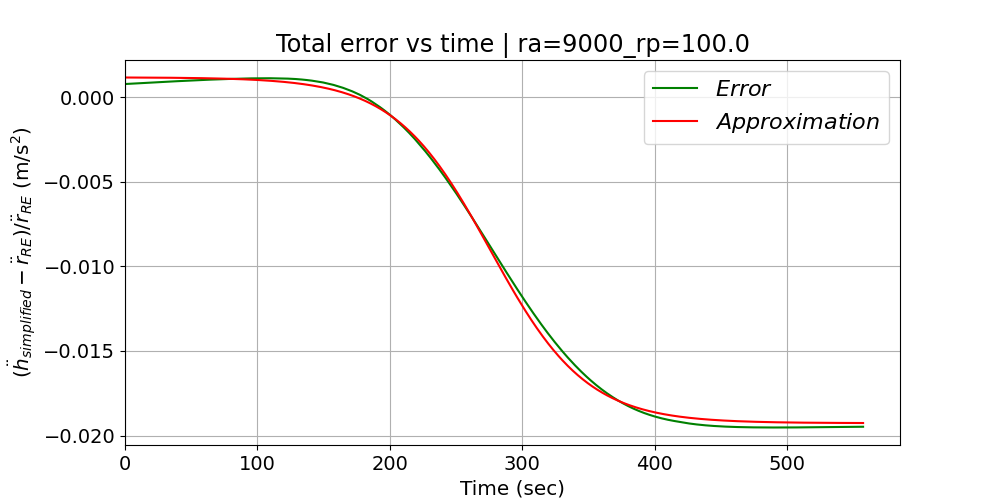
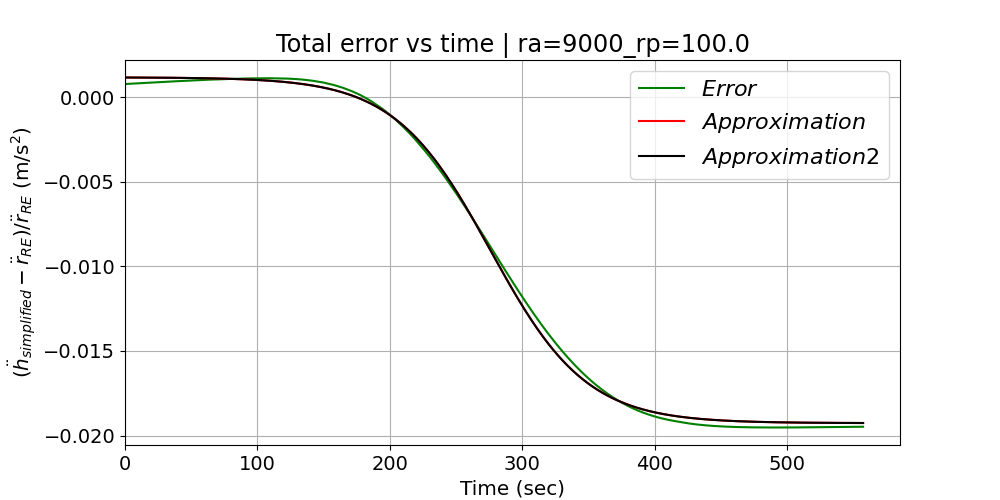
updated readme, changes to data gathering

diff --git a/main2_0.py b/main2_0.py
@@ -243,7 +243,7 @@ hddot_app = hddot_approx(CL_0,CD_0,Sref,v_sim,rho_sim,Rp,h_sim,y_sim)
 
 hddot_ff = hddot_full_form(drag_sim,lift_sim,y_sim,v_sim,h_sim)
 
-rddotOM = rddot_OM(h_sim,SAM_sim)
+rddotOM = rddot_OM(h_lambert,SAM_lambert)
 rddotRE = rddot_RE(h_lambert,v_lambert,y_lambert)
 rddotLAMB = rddot_OM(h_lambert,SAM_lambert)
 
@@ -438,17 +438,17 @@ from scipy import optimize
 def test_func(x, a, b, c):
     return a * np.tanh(c* x) + b
 
-params, params_covariance = optimize.curve_fit(test_func, x, y, p0=[0.002, 0.02,0.001])
+params, params_covariance = optimize.curve_fit(test_func, x, y, p0=[-0.002, 0.02,0.001])
 print(params)
 
-error_app =  test_func(x, -params[0], params[1], -params[2])
-
-
+error_app =  test_func(x, params[0], params[1], params[2])
 
 fig1, ax1=plt.subplots()
 ax1.plot(t_simulation,tot_error,color='green', label="$Error$")
 # ax1.plot([delta_t_lamb,delta_t_lamb], [np.max(tot_error), np.min(tot_error)], "--")
 ax1.plot(np.add(x,delta_t_lamb/2), error_app, color='red', label="$Approximation$")
+ax1.plot(np.add(x,delta_t_lamb/2), error_app2, color='black', label="$Approximation2$")
+
 ax1.set_title("Total error vs time | "+folder2[15:-13],size='xx-large')
 ax1.set_xlim(0)
 ax1.set_ylabel("$(\ddot{h}_{simplified} - \ddot{r}_{RE}) / \ddot{r}_{RE}$ (m/s$^2$)",size='x-large')
@@ -473,8 +473,7 @@ ax2.plot(t_simulation,hddot_app,color='green', label="$\ddot{h}_{simplified}$")
 # ax2.plot(t_simulation,par_app,color='red', label="parabola approx")
 # ax2.plot(pt3[0],pt3[1], 'o',color='orange',markersize=10)
 
-# ax2.plot(t_simulation, rddotOM, color='cyan', label="$\ddot{r}_{OM}$")
-# ax2.plot(t_simulation, rddotRE, color='orange', label="$\ddot{r}_{RE}$")
+ax2.plot(t_simulation, rddotOM, color='cyan', label="$\ddot{r}_{OM}$")
 # ax2.plot(t_lamb, rddotLAMB, color='grey', label="$\ddot{r}_{Lambert}$")
 ax2.plot(t_lamb, rddotLAMB_w_LD, color='blue', label="$\ddot{r}_{RE}$")
 # ax2.plot(pt1[0],pt1[1], 'o',color='orange',markersize=10)
@@ -489,9 +488,7 @@ ax2.legend(fontsize=16)
 fig2.set_size_inches(10,5)
 plt.tick_params(labelsize=14)
 ax2.grid()
-
-# fig2.savefig('C:\\Users\\marta\\Documents\\Research_codes\\Aerobraking\\Closed Form Solution_V2\\figures\\hddot.png');
-
+fig2.savefig("single_sim_plots/hddot.png");
 
 #should probably pass into y^2 one
 vel_km6 = VEL2(t_simulation,tp_sim,alt_cfs,v0,y0,h0,aoa,t_simulation[-1], hope_app)[0]
@@ -517,7 +514,7 @@ plt.tick_params(labelsize=16)
 plt.legend(fontsize=16)
 ax3.grid()
 
-# fig3.savefig('C:\\Users\\marta\\Documents\\Research_codes\\Aerobraking\\Closed Form Solution_V2\\figures\\velocity.png');
+fig3.savefig("single_sim_plots/velocity.png");
 
 
 
@@ -549,5 +546,3 @@ ax3.grid()
 
 Drag = (np.max(v_lambert)**2)*np.max(rho_exp(h_lambert))/2*Sref*CD_0*aoa
 print(aoa)
-
-plt.show()

diff --git a/all_sims.py b/all_sims.py
@@ -670,41 +670,41 @@ plt.tick_params(labelsize=14)
 plt.legend(fontsize=16)
 ax23.grid()
 
-# import csv
+import csv
 
-# header = ['Simulation', 'a','b','c', 'h0', 'v0', 'y0','hddot0','tp_lamb',"tf_lamb","max drag"]
-# rp = [90,95,100,105,110]
+header = ['Simulation', 'a','b','c', 'h0', 'v0', 'y0','hddot0','tp_lamb',"tf_lamb","max drag"]
+rp = [90,95,100,105,110]
 
-# data = np.empty((60,11))
+data = np.empty((60,11))
 
-# ct = 0
+ct = 0
 
-# ra = [11000, 13000 ,15000, 17000 , 19000 , 21000 , 23000 , 25000 , 27000, 5000, 7000, 9000]
+ra = [11000, 13000 ,15000, 17000 , 19000 , 21000 , 23000 , 25000 , 27000, 5000, 7000, 9000]
 
-# for i in range(len(ra)):
-#     for j in range(len(rp)):
-#         data[ct][0] = ra[i]
-#         data[ct][1] = a_tot[i][j]
-#         data[ct][2] = b_tot[i][j]
-#         data[ct][3] = c_tot[i][j]
-#         data[ct][4] = ICs_tot[i][j][0]
-#         data[ct][5] = ICs_tot[i][j][1]
-#         data[ct][6] = ICs_tot[i][j][2]
-#         data[ct][7] = hddot0_tot[i][j]
-#         data[ct][8] = tp_lamb_tot[i][j]
-#         data[ct][9] = tf_lamb_tot[i][j]
-#         data[ct][10] = max_D_tot[i][j]
+for i in range(len(ra)):
+    for j in range(len(rp)):
+        data[ct][0] = ra[i]
+        data[ct][1] = a_tot[i][j]
+        data[ct][2] = b_tot[i][j]
+        data[ct][3] = c_tot[i][j]
+        data[ct][4] = ICs_tot[i][j][0]
+        data[ct][5] = ICs_tot[i][j][1]
+        data[ct][6] = ICs_tot[i][j][2]
+        data[ct][7] = hddot0_tot[i][j]
+        data[ct][8] = tp_lamb_tot[i][j]
+        data[ct][9] = tf_lamb_tot[i][j]
+        data[ct][10] = max_D_tot[i][j]
         
-#         ct = ct+1
+        ct = ct+1
 
-# with open('C:/Users/Owner/OneDrive/Documents/Research/Aerobraking/Closed Form Solution/data_related.csv', 'w', encoding='UTF8', newline='') as f:
-#     writer = csv.writer(f)
+with open('data/data_related.csv', 'w', encoding='UTF8', newline='') as f:
+    writer = csv.writer(f)
 
-#     # write the header
-#     writer.writerow(header)
+    # write the header
+    writer.writerow(header)
 
-#     # write the data
-#     writer.writerows(data)
+    # write the data
+    writer.writerows(data)
 
 
 # r90 = []

diff --git a/README.md b/README.md
@@ -1,8 +1,14 @@
 # Closed-form solution for shallow, high-altitude, atmospheric flight
 
+## Quick Notes
+
 - To run all simulations at once and obtain results, run `all_sims.py`
 - To run a single simulation and obtain results, run `main2_0.py`
 - `closed_form_solution.py` contains helper functions to compute the current closed form solution
 - `data_analysis.py` contains parsing functions for the drag passage results in the `DragPassageResults` folder
 - `lamberts_problem.py` contains helper functions to solve Lambert's problem in different ways
 - the `old_code` folder should not be necessary
+
+## Specifics
+
+- In `data` folder, you will find the csv file `data_all_sims.csv`, containing data resulting from running the corresponding script, `all_sims.py`. This csv file is being used to study the relationship between the error coefficients and known parameters to the user in the python script `data_corelation.py`
